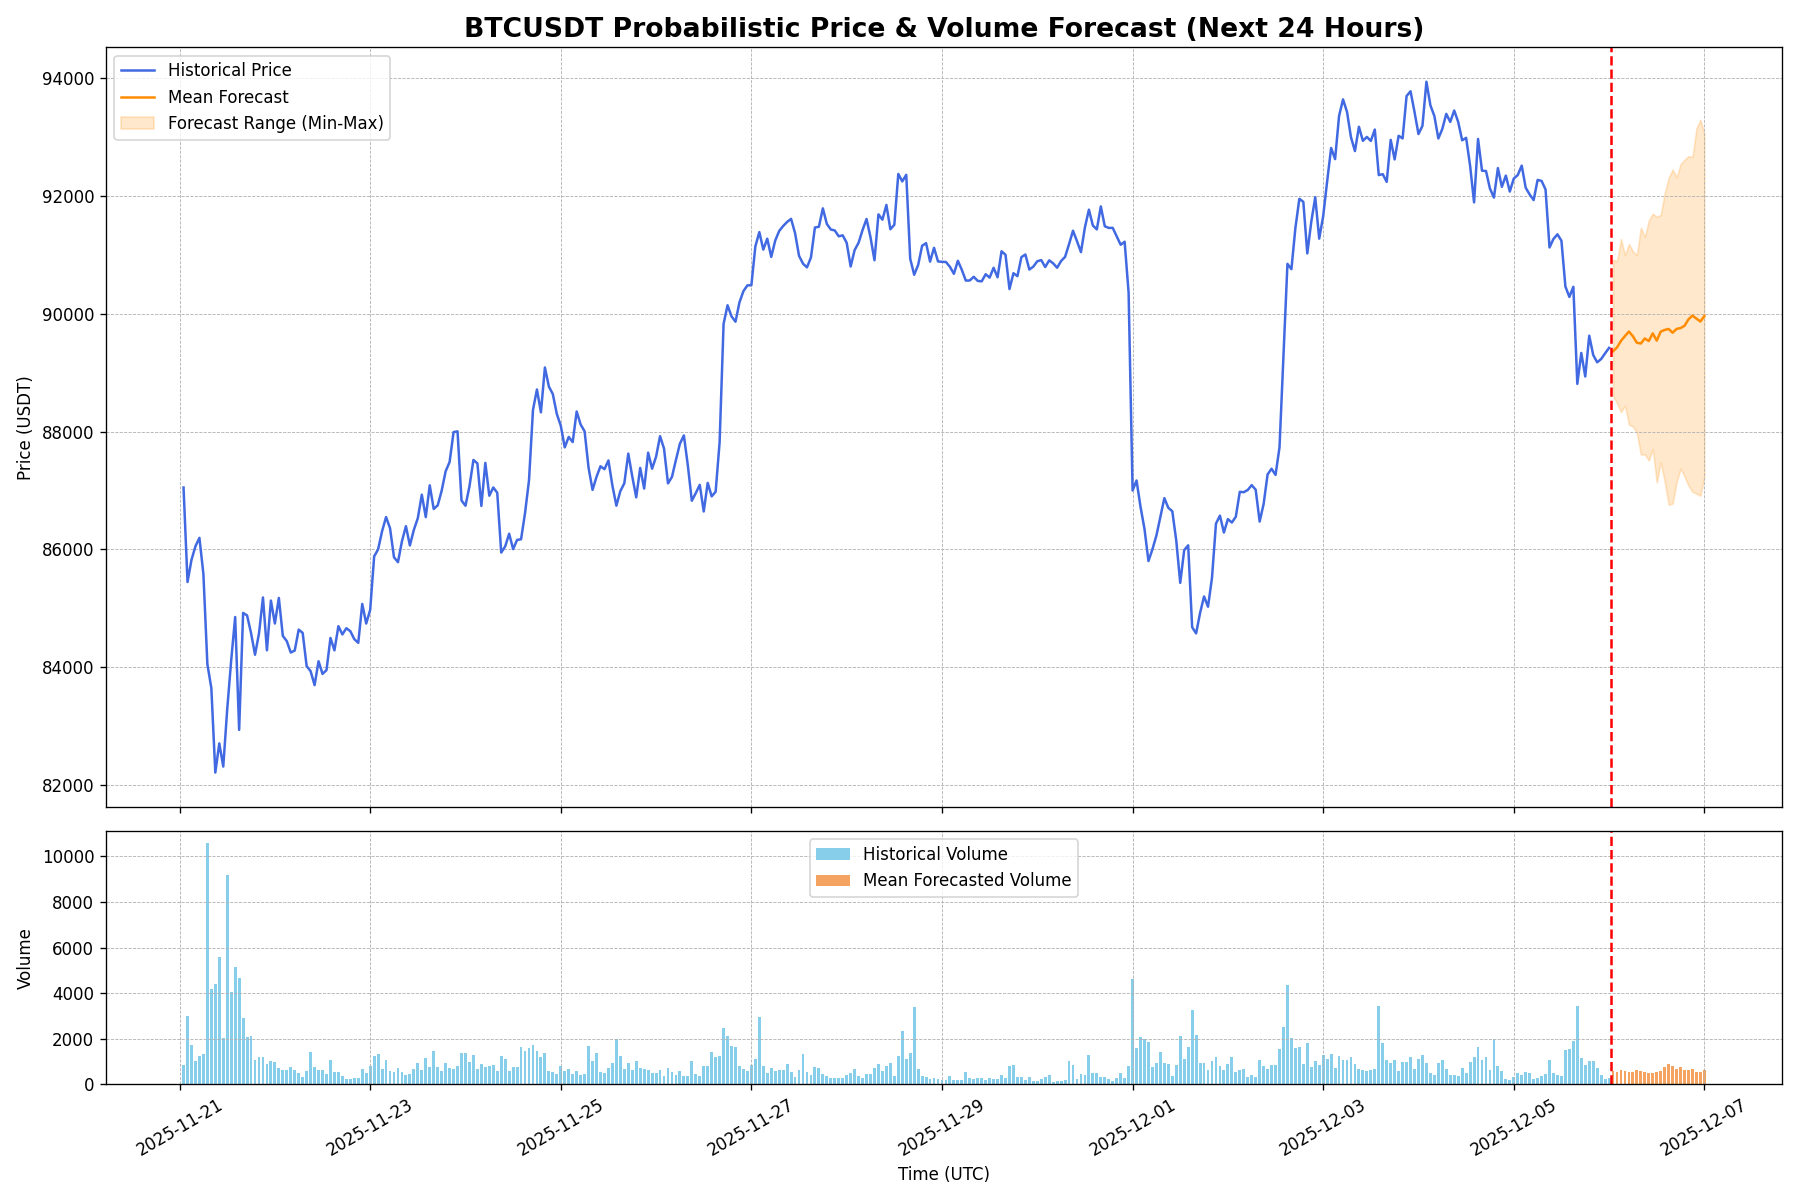
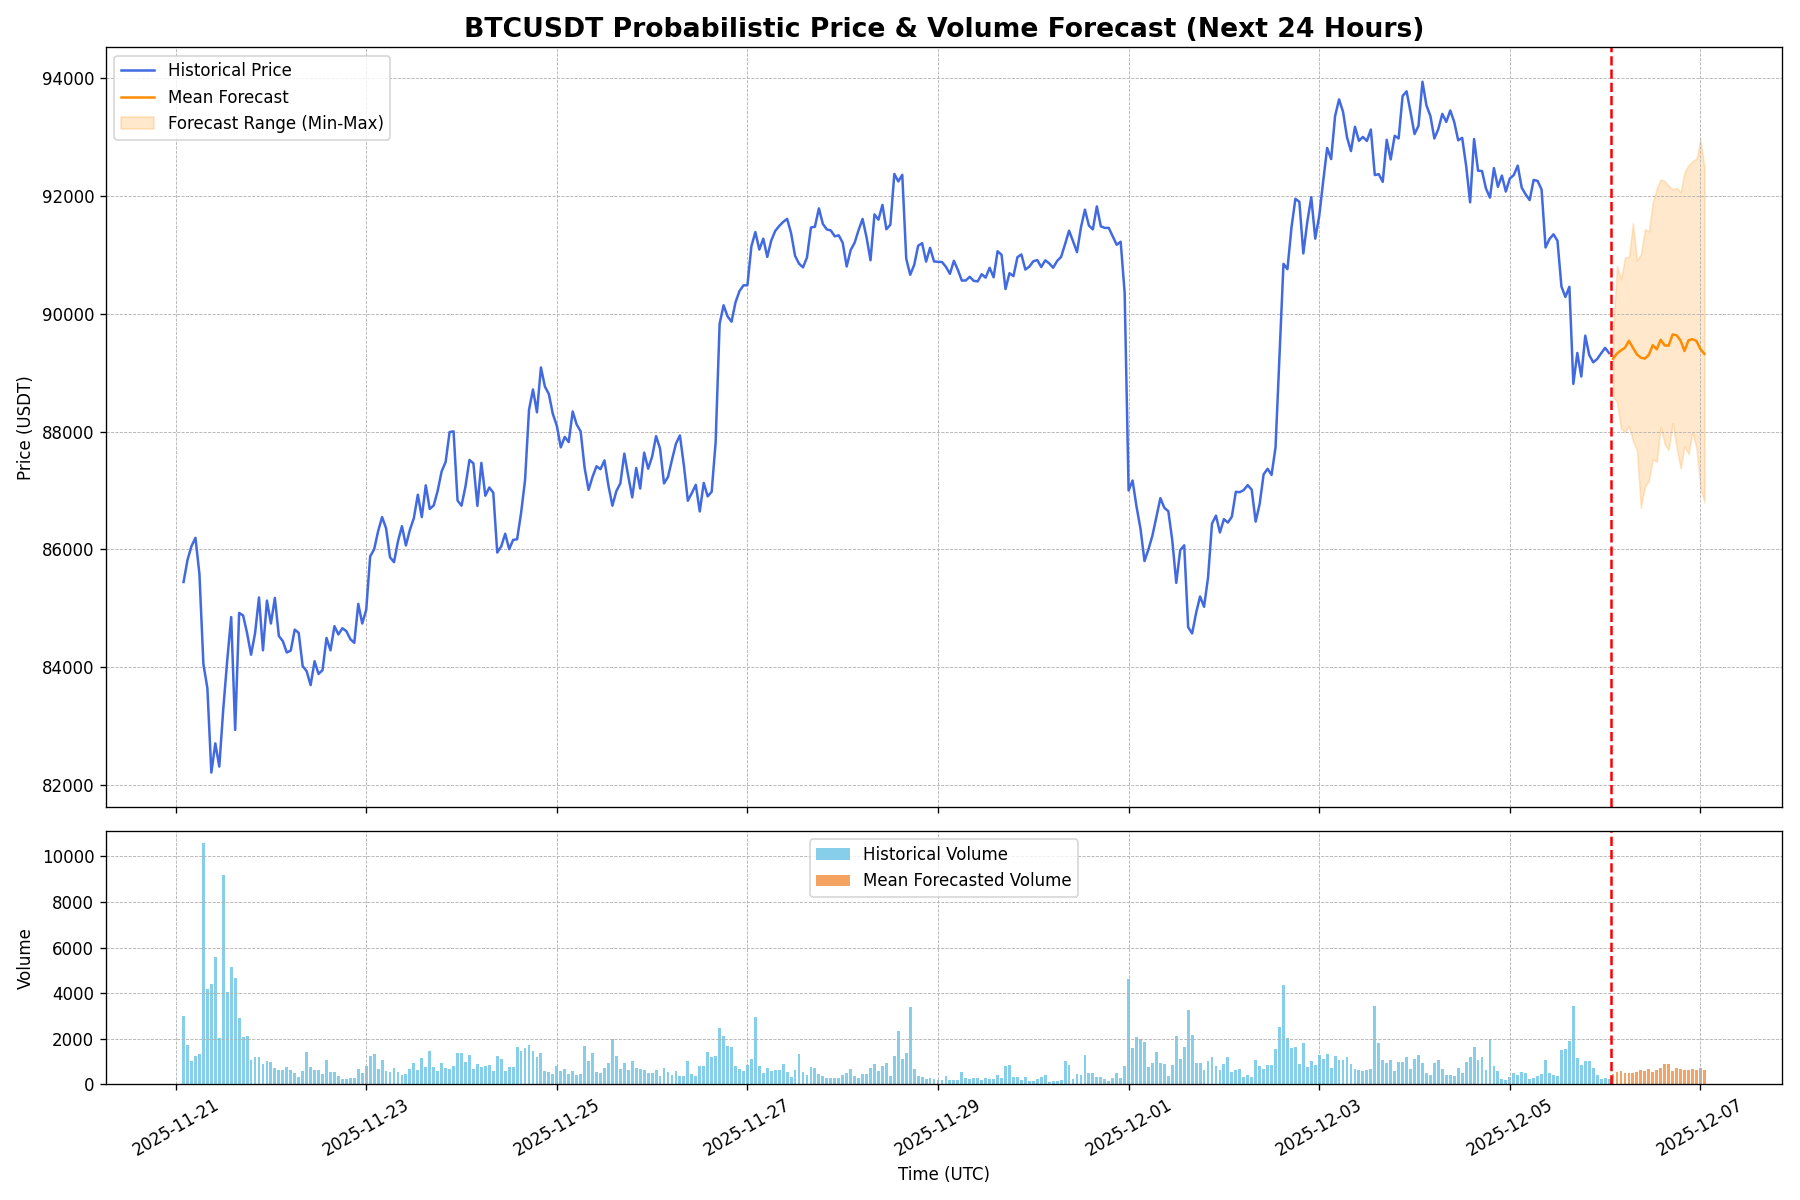
Auto-update forecast for 2025-12-06 02:01 UTC

diff --git a/index.html b/index.html
@@ -22,19 +22,19 @@
         <section id="live-dashboard">
             <h2>Live BTC/USDT Forecast Dashboard</h2>
             <div class="metadata">
-                <span>Last Updated (UTC): <strong id="update-time">2025-12-06 01:01:05</strong></span>
+                <span>Last Updated (UTC): <strong id="update-time">2025-12-06 02:01:07</strong></span>
                 <span>Data Source: Binance | Interval: 1-Hour</span>
             </div>
 
             <div class="metrics-container">
                 <div class="metric-card">
                     <h3>Upside Probability (Next 24h)</h3>
-                    <p class="metric-value" id="upside-prob">60.0%</p>
+                    <p class="metric-value" id="upside-prob">46.7%</p>
                     <div class="metric-desc">The model's confidence that the price in 24 hours will be higher than the last known price.</div>
                 </div>
                 <div class="metric-card">
                     <h3>Volatility Amplification (Next 24h)</h3>
-                    <p class="metric-value" id="vol-amp-prob">16.7%</p>
+                    <p class="metric-value" id="vol-amp-prob">26.7%</p>
                     <div class="metric-desc">The probability that predicted volatility over the next 24h will exceed recent historical volatility.</div>
                 </div>
             </div>
